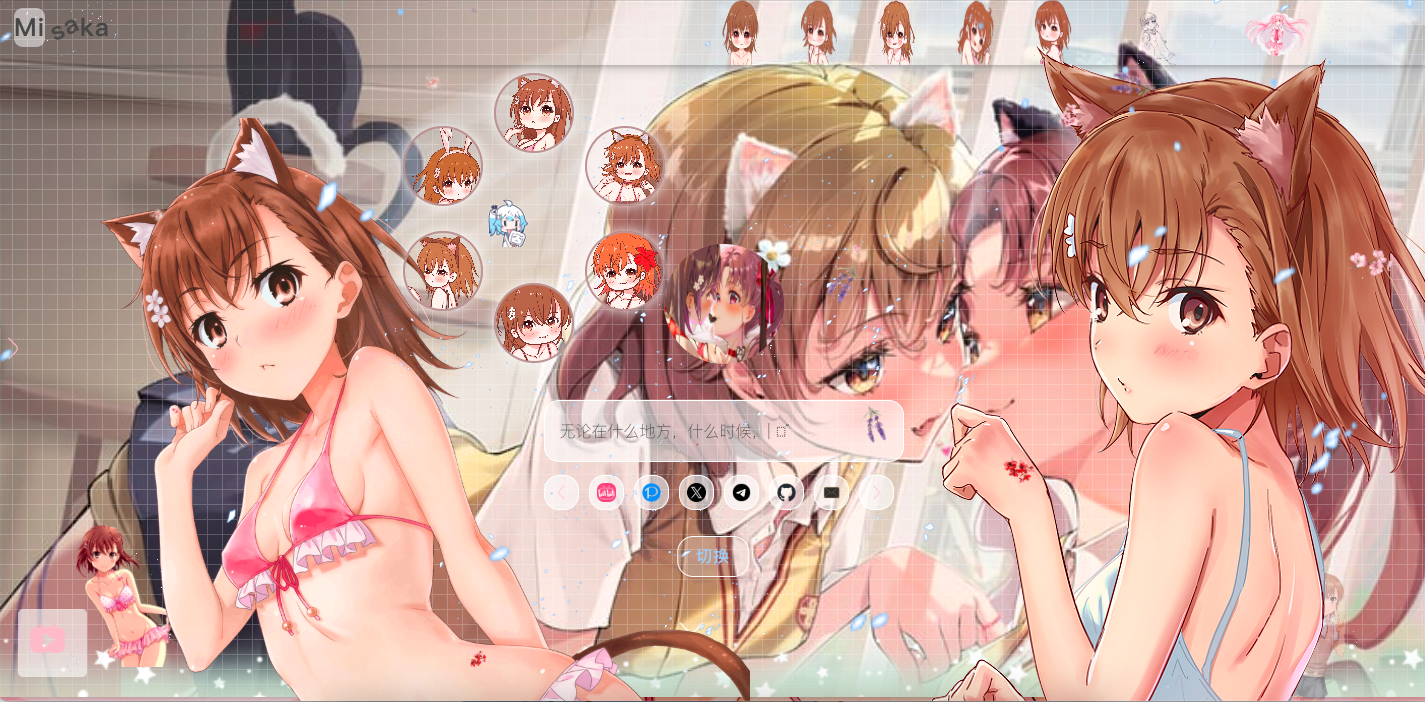
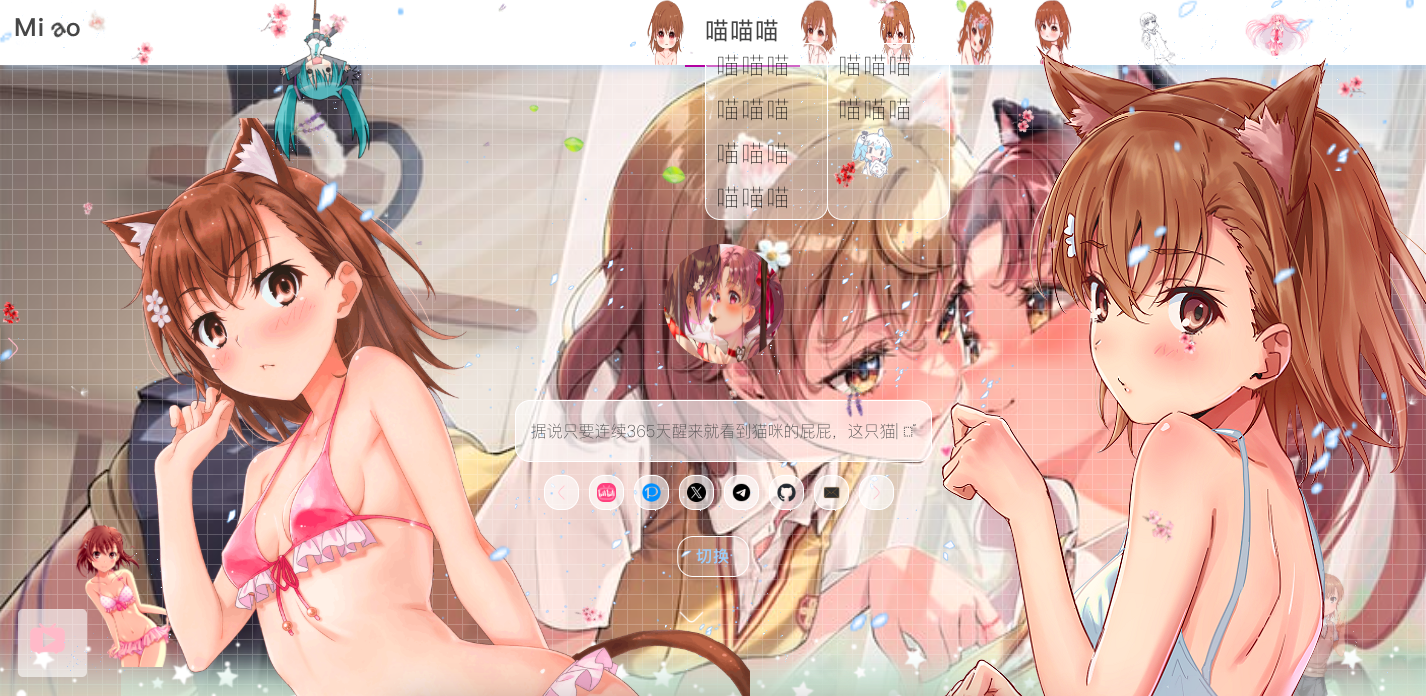
miku挂件|菜单|bug修补

diff --git a/index.html b/index.html
@@ -5,7 +5,7 @@
     <meta charset="UTF-8">
     <meta http-equiv="X-UA-Compatible" content="IE=edge">
     <meta name="viewport" content="width=device-width, initial-scale=1.0">
-    <title>misaka</title>
+    <title>miao</title>
     <meta name="description" content="Sakura">
     <meta name="keywords" content="Sakura">
     <link rel="icon" href="./image/index/Sakura.png">
@@ -73,7 +73,13 @@
             <div id="cursor-dot"></div>
             <div id="cursor-circle"></div>
             <div class="scrollbar" id="bar"></div>
-            <a href="#" class="cd-top"></a>
+            <a class="cd-top"></a>
+            <div class="top-container">
+                <div class="popup-container">
+                    <img src="./image/index/scroll1.png" class="popup-img">
+                </div>
+            </div>
+            <button class="close-btn" onclick="togglePopup()"></button>
             <img id="BackToTop" style="transform: scale(0); transition: transform 0.3s;" src="./image/index/keai2.png">
             <img id="open-skinMenu" src="./image/index/keai.png">
             <div class="skin-menu">
@@ -193,9 +199,9 @@
                 style="position: absolute;z-index: 999;pointer-events: none;top: 757px;width: 321px;right: -66px;"
                 class="mobile align-right slide-in">
             <header id="header">
-                <span id="logo2" class="logolink moe-mashiro"><a href="#"><ruby><span class="Sakuraso">M</span><span
-                                class="no">o</span><span class="">e</span>
-                            <rt class="">Misaka Mikoto</rt>
+                <span id="logo2" class="logolink moe-mashiro"><a href="#"><ruby><span class="Sakuraso">Mi</span><span
+                                class="no">a</span><span class="">o</span>
+                            <rt class="">呜喵~</rt>
                         </ruby></a></span>
                 <!-- <h1 id="logo"><a href="#">喵喵喵</a></h1> -->
                 <div class="img"></div>
@@ -204,7 +210,27 @@
                     <ul>
                         <xh>
                             <img src="./image/index/1.png" style="width: 38px; height: 66px;">
-                            <xhx><a style="font-weight: 321;color: #424242;" href=""></a></xhx>
+                            <xhx>
+                                <cd class="menu-container">
+                                    <a style="font-weight: 321;color: #424242;" class="menu-trigger">喵喵喵</a>
+                                    <div class="submenu">
+                                        <ull>
+                                            <lii>
+                                                <a class="submenu-item submenu-trigger" id="option-1">喵喵喵</a>
+                                                <div class="submenu-2" id="submenu-2">
+                                                    <ull>
+                                                        <lii><a href="#">喵喵喵</a></lii>
+                                                        <lii><a href="#">喵喵喵</a></lii>
+                                                    </ull>
+                                                </div>
+                                                <a href="#" class="submenu-item">喵喵喵</a>
+                                                <a href="#" class="submenu-item">喵喵喵</a>
+                                                <a href="#" class="submenu-item">喵喵喵</a>
+                                            </lii>
+                                        </ull>
+                                    </div>
+                                </cd>
+                            </xhx>
                             <img src="./image/index/5.png" style="width: 38px; height: 66px;">
                             <xhx><a style="font-weight: 321;color: #424242;" href=""></a></xhx>
                             <img src="./image/index/21.png" style="width: 38px; height: 66px;">
@@ -496,7 +522,7 @@
                                 <div class="footer-left-bottom-info">
                                     <div class="contact1">
                                         <h2 style="color: #424242;">卡哇伊~</h2>
-                                        <ul>Theme Moe by
+                                        <ul>theme miao by
                                             <a href="https://github.com/mikot0/moe"
                                                 style="font-weight: 321;color: #4d4d4d;"> mikot0</a>｜
                                         </ul>
@@ -527,7 +553,7 @@
                                                     “</td>
                                                 <td style="padding: 1em; vertical-align: middle;"><b><span
                                                             style="color:#E95098;"><ruby>
-                                                                <rb style="font-weight: 210;">呐,你想变成什么颜色？</rb>
+                                                                <rb style="font-weight: 210;">呐,你想变成什么颜色?</rb>
                                                                 <rt style="font-size:0.75em"><span
                                                                         style="font-weight: 210;">ねぇ，あなたは何色になりたい?</span>
                                                                 </rt>
@@ -757,6 +783,84 @@
     #toggleSidebar img {
         width: 30px;
         height: 30px;
+    }
+
+    .top-container {
+        position: fixed;
+        top: 0;
+        left: 39vh;
+        right: 0;
+        overflow: hidden;
+        transform: translateY(-100%);
+        opacity: 0;
+        transition: transform 1s, opacity 1s;
+        z-index: 1111;
+        pointer-events: none;
+    }
+
+    .popup-container {
+        width: 100px;
+    }
+
+    .popup-img {
+        width: 100%;
+        opacity: 0.8;
+    }
+
+    .close-btn {
+        position: fixed;
+        left: 39vh;
+        width: 123px;
+        height: 123px;
+        background: transparent;
+        border: 1px solid transparent;
+        font-size: 10px;
+        z-index: 1234;
+        transform: translateY(-100%);
+        opacity: 0;
+        transition: transform 1s, opacity 1s;
+    }
+
+    .submenu,
+    .submenu-2 {
+        display: none;
+        position: absolute;
+        background: #fff6;
+        border: 1px solid #fff;
+        width: 123px;
+        height: 177px;
+        z-index: 1234;
+        border-radius: 15px;
+    }
+
+    .submenu-2 {
+        top: -1px;
+        left: 100%;
+    }
+
+    .submenu ull {
+        list-style: none;
+        padding: 0;
+        margin: 0;
+    }
+
+    .submenu ull lii a {
+        display: block;
+        padding: 10px;
+        text-decoration: none;
+        color: #000;
+        border-radius: 15px;
+    }
+
+    .menu-container:hover .submenu,
+    .submenu ull lii:hover>.submenu-2 {
+        display: block;
+    }
+
+    .menu-trigger:hover,
+    .submenu-item:hover,
+    .submenu-2 a:hover {
+        background-color: #ffffff66;
     }
 </style>
 
@@ -1444,7 +1548,7 @@
             tnt.style.backgroundImage = 'url("https://api.maho.cc/random-img/pc.php")';
             flower30.src = "https://api.maho.cc/random-img/pc.php";
             /*monav.style.backgroundImage = 'url("https://.你的域名./image/index/chara04..jpeg")';*/
-            monav.style.backgroundImage = 'url("https://api.boxmoe.com/random.php")';
+            monav.style.backgroundImage = 'url("https://api.maho.cc/asuhe-rand/index.php")';
             body.style.backgroundImage = 'url("https://api.horosama.com/random.php")';
             flower26.src = "https://www.loliapi.com/acg/pp/";
             flower27.src = "https://api.boxmoe.com/random.php?size=mw690";
@@ -1452,11 +1556,11 @@
             banner.style.backgroundImage = 'url("https://www.loliapi.com/acg/pc/")';
             qwq.style.backgroundImage = 'url("https://www.loliapi.com/acg/pe/")';
             flower28.src = "https://www.loliapi.com/acg/pe/";
-            awa.style.backgroundImage = 'url("https://api.maho.cc/asuhe-rand/index.php")';
+            awa.style.backgroundImage = 'url("https://api.boxmoe.com/random.php")';
             flower29.src = "https://api.maho.cc/asuhe-rand/index.php";
-            tnt.style.backgroundImage = 'url("https://api.maho.cc/random-img/mobile.php")';
+            tnt.style.backgroundImage = 'url("https://api.boxmoe.com/random.php?return=json")';
             flower30.src = "https://api.maho.cc/random-img/mobile.php";
-            monav.style.backgroundImage = 'url("https://api.boxmoe.com/random.php?return=json")';
+            monav.style.backgroundImage = 'url("https://api.maho.cc/random-img/mobile.php")';
             body.style.backgroundImage = 'url("https://img.paulzzh.com/touhou/random")';
             flower26.src = "https://api.boxmoe.com/random.php?size=mw1024";
             flower27.src = "https://api.boxmoe.com/random.php?size=large";
@@ -1464,6 +1568,42 @@
 
         isFirst = !isFirst;
     });
+
+    let isOpen = true;
+
+    function togglePopup() {
+        const topContainer = document.querySelector('.top-container');
+        const closeButton = document.querySelector('.close-btn');
+        if (isOpen) {
+            topContainer.style.transform = 'translateY(-100%)';
+            topContainer.style.opacity = '0';
+            closeButton.style.transform = 'translateY(-66%)';
+        } else {
+            topContainer.style.transform = 'translateY(0)';
+            topContainer.style.opacity = '1';
+            closeButton.style.transform = 'translateY(0)';
+        }
+        closeButton.style.opacity = '1';
+        isOpen = !isOpen;
+    }
+
+    window.onload = () => {
+        document.querySelector('.top-container').style.transform = 'translateY(0)';
+        document.querySelector('.top-container').style.opacity = '1';
+        document.querySelector('.close-btn').style.transform = 'translateY(0)';
+        document.querySelector('.close-btn').style.opacity = '1';
+    };
+
+    const option1 = document.getElementById("option-1");
+    const submenu2 = document.getElementById("submenu-2");
+    const menuContainer = document.querySelector(".menu-container");
+
+    option1.addEventListener("mouseover", () => submenu2.style.display = "block");
+    menuContainer.addEventListener("mouseleave", () => submenu2.style.display = "none");
+    option1.addEventListener("mouseout", (e) => { if (!submenu2.contains(e.relatedTarget)) submenu2.style.display = "none"; });
+    submenu2.addEventListener("mouseover", () => submenu2.style.display = "block");
+    submenu2.addEventListener("mouseout", (e) => { if (!submenu2.contains(e.relatedTarget)) submenu2.style.display = "none"; });
+    option1.addEventListener("click", (e) => { e.preventDefault(); submenu2.style.display = submenu2.style.display === "block" ? "none" : "block"; });
 </script>
 
 </html>

diff --git a/js/SakuraSakuraSakuraSakuraSakuraSakuraSakuraSakura.js b/js/SakuraSakuraSakuraSakuraSakuraSakuraSakuraSakura.js
@@ -86,11 +86,11 @@
 			'<bq>miao</bq>' +
 			'<div class="navigation-tags">' +
 			'<ul id="menu-%e4%b8%bb-1" class="mobile menu">' +
-			'<li><a href=""><img src="./image/index/4.png" style="font-weight: 321;width: 23px;"></a></li>' +
-			'<li><a href=""><img src="./image/index/20.png" style="font-weight: 321;width: 23px;"></a></li>' +
-			'<li><a href=""><img src="./image/index/19.png" style="font-weight: 321;width: 23px;"></a></li>' +
-			'<li><a href=""><img src="./image/index/28.png" style="font-weight: 321;width: 23px;"></a></li>' +
-			'<li><a href=""><img src="./image/index/29.png" style="font-weight: 321;width: 23px;"></a></li>' +
+			'<li><a href=""><img src="./image/index/4.png" style="font-weight: 321;width: 23px;">喵喵喵</a></li>' +
+			'<li><a href=""><img src="./image/index/20.png" style="font-weight: 321;width: 23px;">喵喵喵</a></li>' +
+			'<li><a href=""><img src="./image/index/19.png" style="font-weight: 321;width: 23px;">喵喵喵</a></li>' +
+			'<li><a href=""><img src="./image/index/28.png" style="font-weight: 321;width: 23px;">喵喵喵</a></li>' +
+			'<li><a href=""><img src="./image/index/29.png" style="font-weight: 321;width: 23px;">喵喵喵</a></li>' +
 			'<li><a href="#"><img src="./image/index/28.gif" style="font-weight: 321;width: 23px;">文字广告位</a></li>' +
 			'<li><a href="#"><img src="./image/index/29.gif" style="font-weight: 321;width: 23px;">文字广告位2</a></li>' +
 			'<li><a href="#"><img src="./image/index/30.gif" style="font-weight: 321;width: 23px;">文字广告位3</a></li>' +
@@ -370,25 +370,25 @@
 
 //导航栏
 document.addEventListener("DOMContentLoaded", function () {
-    var header = document.querySelector('#header');
+	var header = document.querySelector('#header');
 
-    window.addEventListener('scroll', function () {
-        var scrollTop = window.pageYOffset || document.documentElement.scrollTop;
+	window.addEventListener('scroll', function () {
+		var scrollTop = window.pageYOffset || document.documentElement.scrollTop;
 
-        header.style.transition = 'all 1s';
-        header.style.borderRadius = scrollTop > 0 ? '0px' : '15px';
-        header.style.width = scrollTop > 0 ? '100%' : '95%';
-        header.style.top = scrollTop > 0 ? '0px' : '30px';
-        header.style.backgroundColor = scrollTop > 0 ? 'rgba(66, 66, 66, 0)' : 'rgba(66, 66, 66, 0)';
-    });
+		header.style.transition = 'all 1s';
+		header.style.borderRadius = scrollTop > 0 ? '0px' : '15px';
+		header.style.width = scrollTop > 0 ? '100%' : '95%';
+		header.style.top = scrollTop > 0 ? '0px' : '30px';
+		header.style.backgroundColor = scrollTop > 0 ? 'rgba(66, 66, 66, 0)' : 'rgba(66, 66, 66, 0)';
+	});
 
-    header.addEventListener('mouseover', function () {
-        header.style.backgroundColor = 'rgba(255, 255, 255, 1)';
-    });
+	header.addEventListener('mouseover', function () {
+		header.style.backgroundColor = 'rgba(255, 255, 255, 1)';
+	});
 
-    header.addEventListener('mouseout', function () {
-        header.style.backgroundColor = 'rgba(66, 66, 66, 0)';
-    });
+	header.addEventListener('mouseout', function () {
+		header.style.backgroundColor = 'rgba(66, 66, 66, 0)';
+	});
 });
 
 //手机端菜单

diff --git a/css/SakuraSakura.css b/css/SakuraSakura.css
@@ -3019,8 +3019,6 @@ body.miaomiaomiao #page-wrapper {
 
 body.miaomiaomiao #header {
     box-sizing: border-box;
-    border-bottom-left-radius: 5px;
-    border-bottom-right-radius: 5px;
     /* 模糊，磨砂质感 */
     /* backdrop-filter: blur(8px); */
     z-index: 99;

diff --git a/css/Sakura.css b/css/Sakura.css
@@ -667,7 +667,7 @@ xhx {
 xhx::before {
     content: "";
     position: absolute;
-    top: 100%;
+    top: 66px;
     left: 0;
     width: 0;
     height: 2px;

diff --git a/README.md b/README.md
@@ -1,1 +1,1 @@
-<img src="https://github.com/mikot0/sakura-anime/blob/main/1.png?raw=true">
+<img src="https://github.com/mikot0/miao/blob/main/1.png?raw=true">
